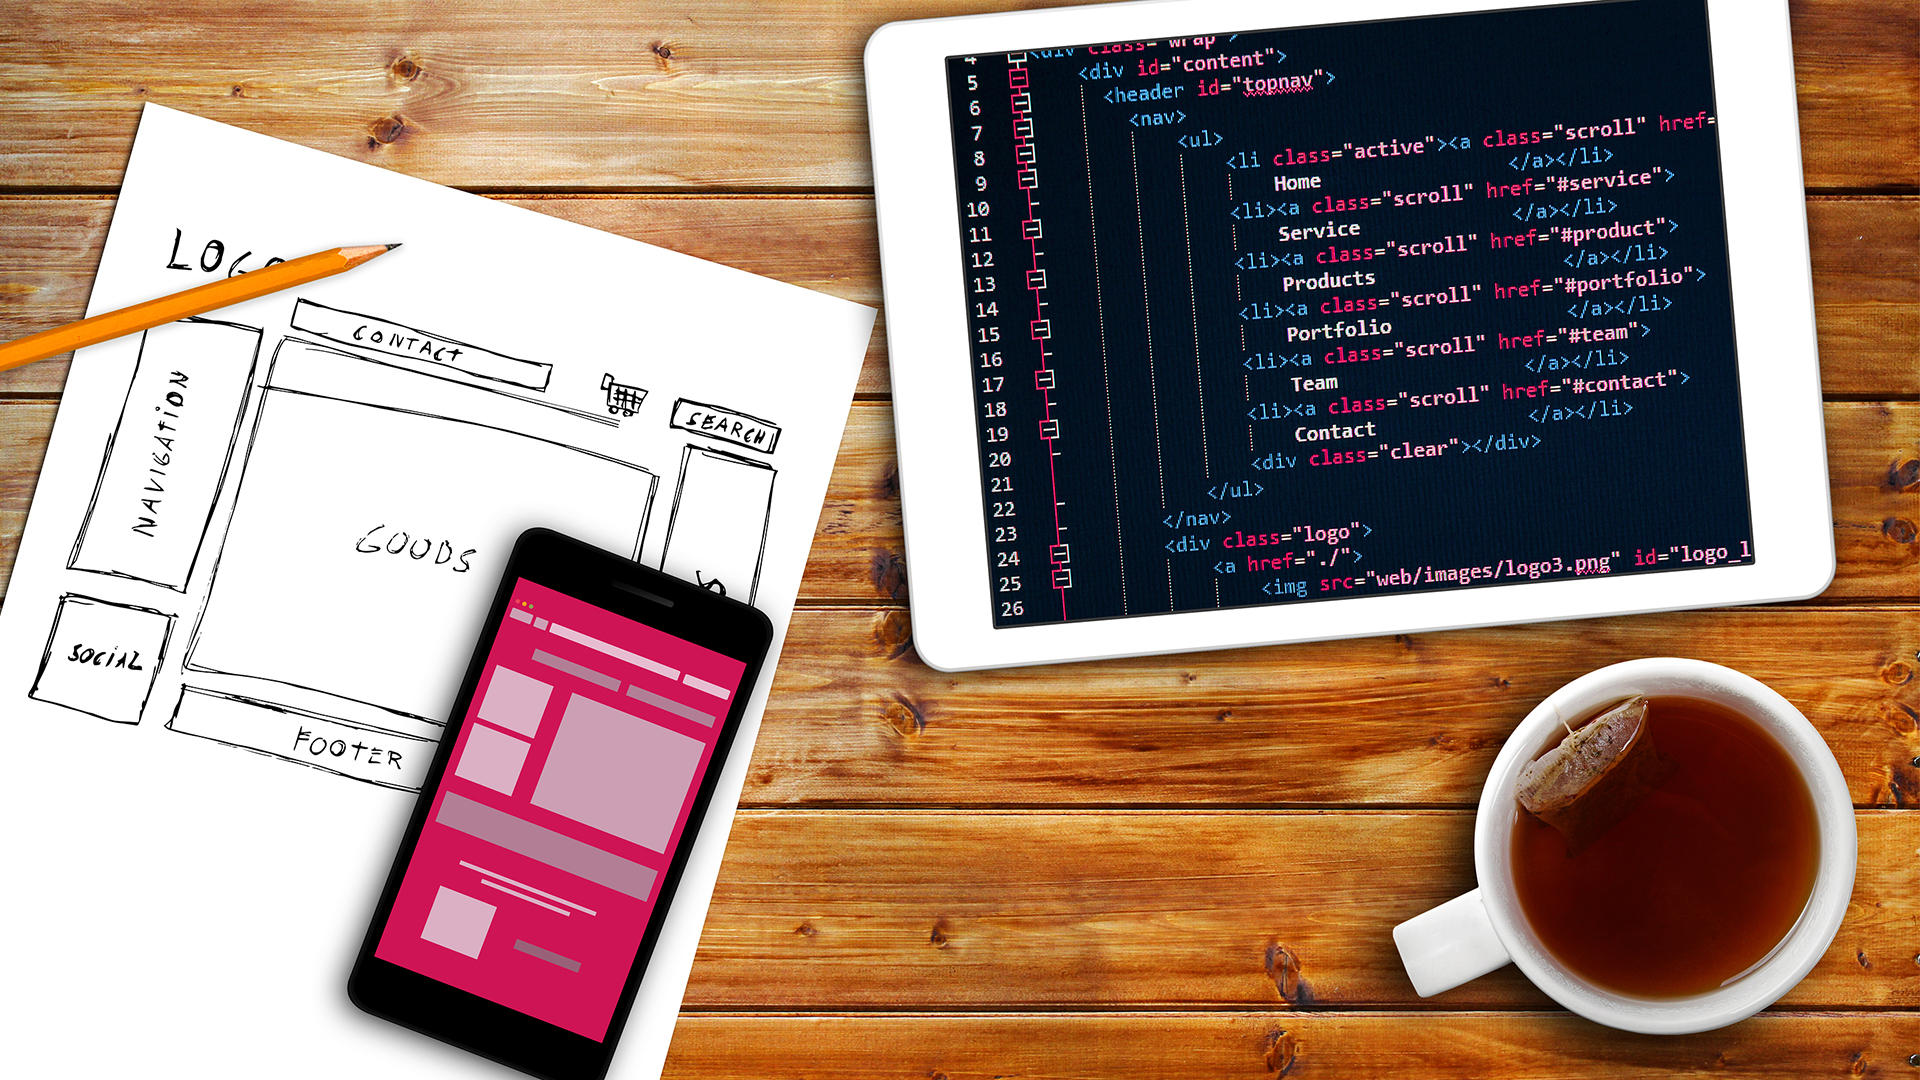
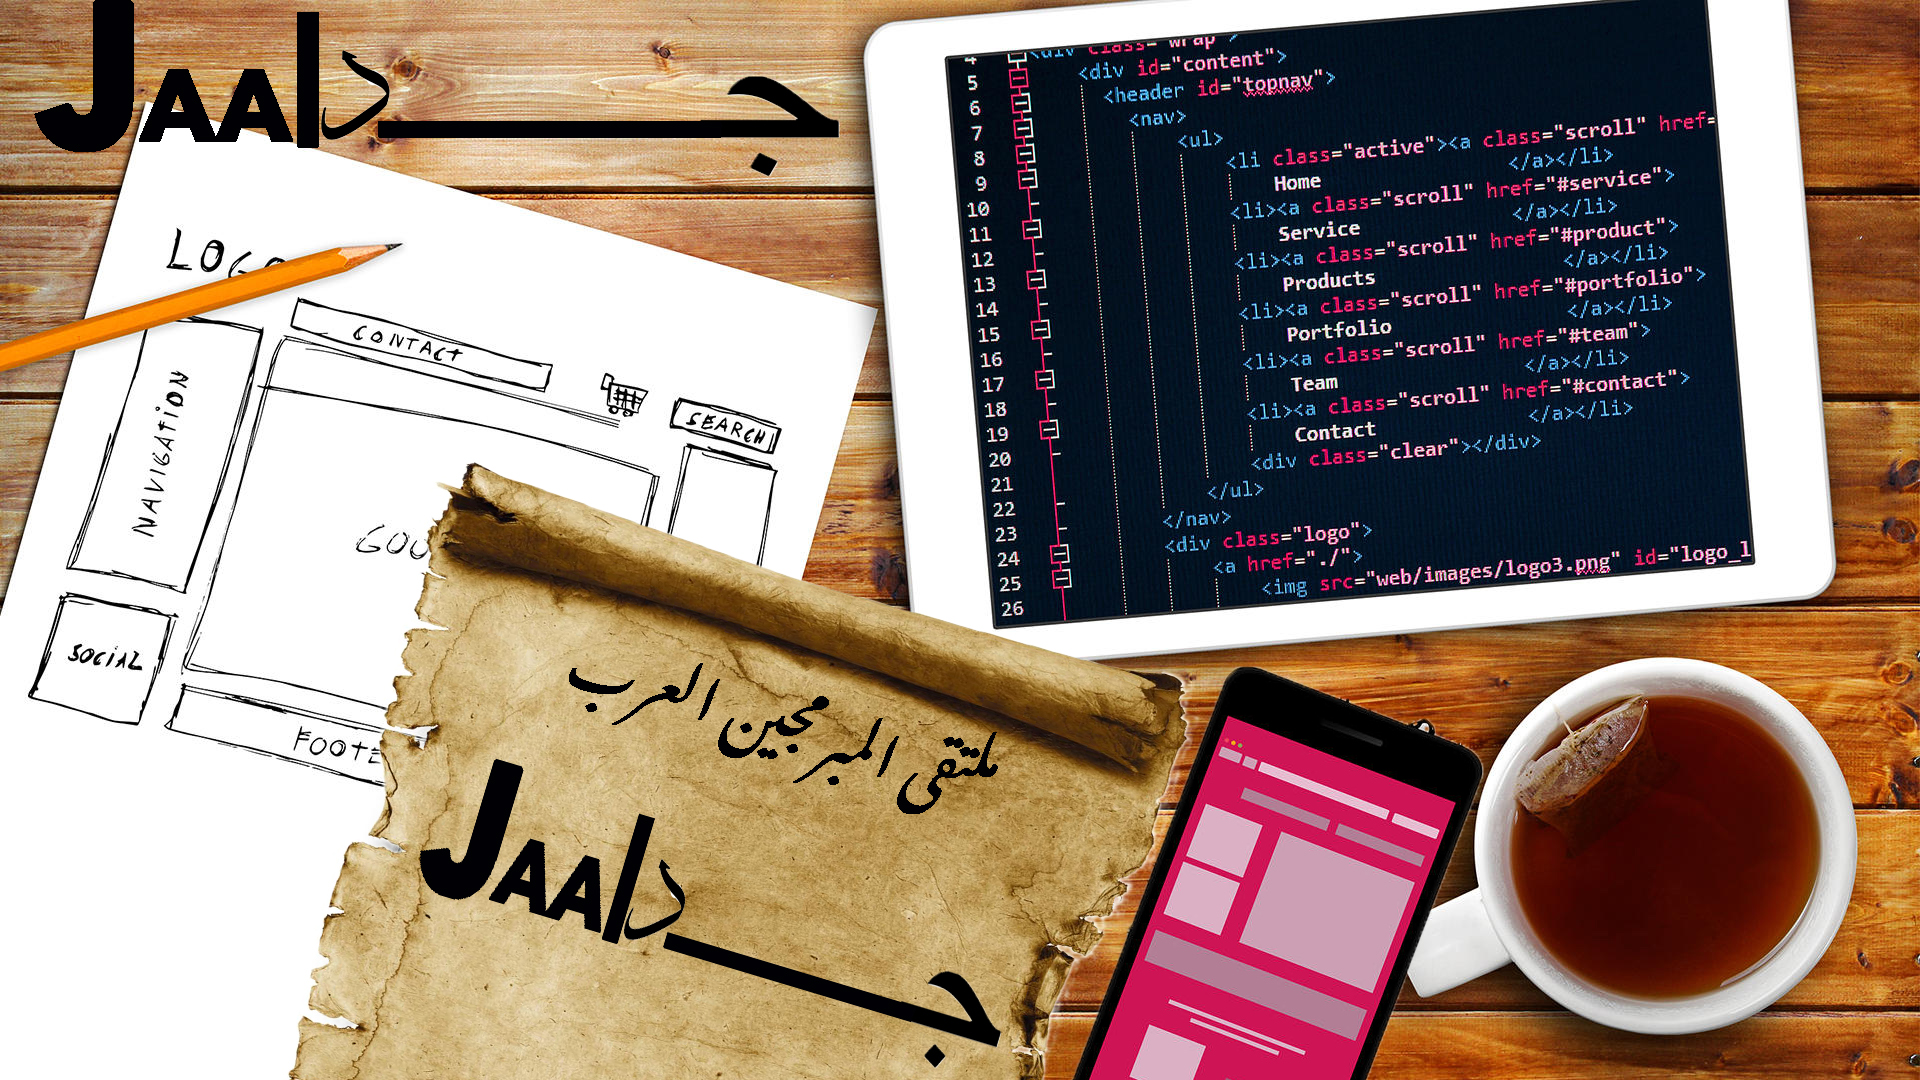
all good

Changed region(s): [[0.125, 0.4278, 0.7812, 1.0], [0.0, 0.0, 0.4375, 0.1833]]

diff --git a/client/src/components/layout/Landing.js b/client/src/components/layout/Landing.js
@@ -17,7 +17,9 @@ class Landing extends Component {
           <div className="container">
             <div className="row">
               <div className="col-md-12 text-center">
-                <h1 className="display-3 mb-4">Developers From the East</h1>
+                <h1 className="display-3 mb-4">
+                  Developers From the East ملتقى المبرمجين العرب
+                </h1>
                 <p className="lead">
                   {" "}
                   Create a developer profile/portfolio, share posts and get help
